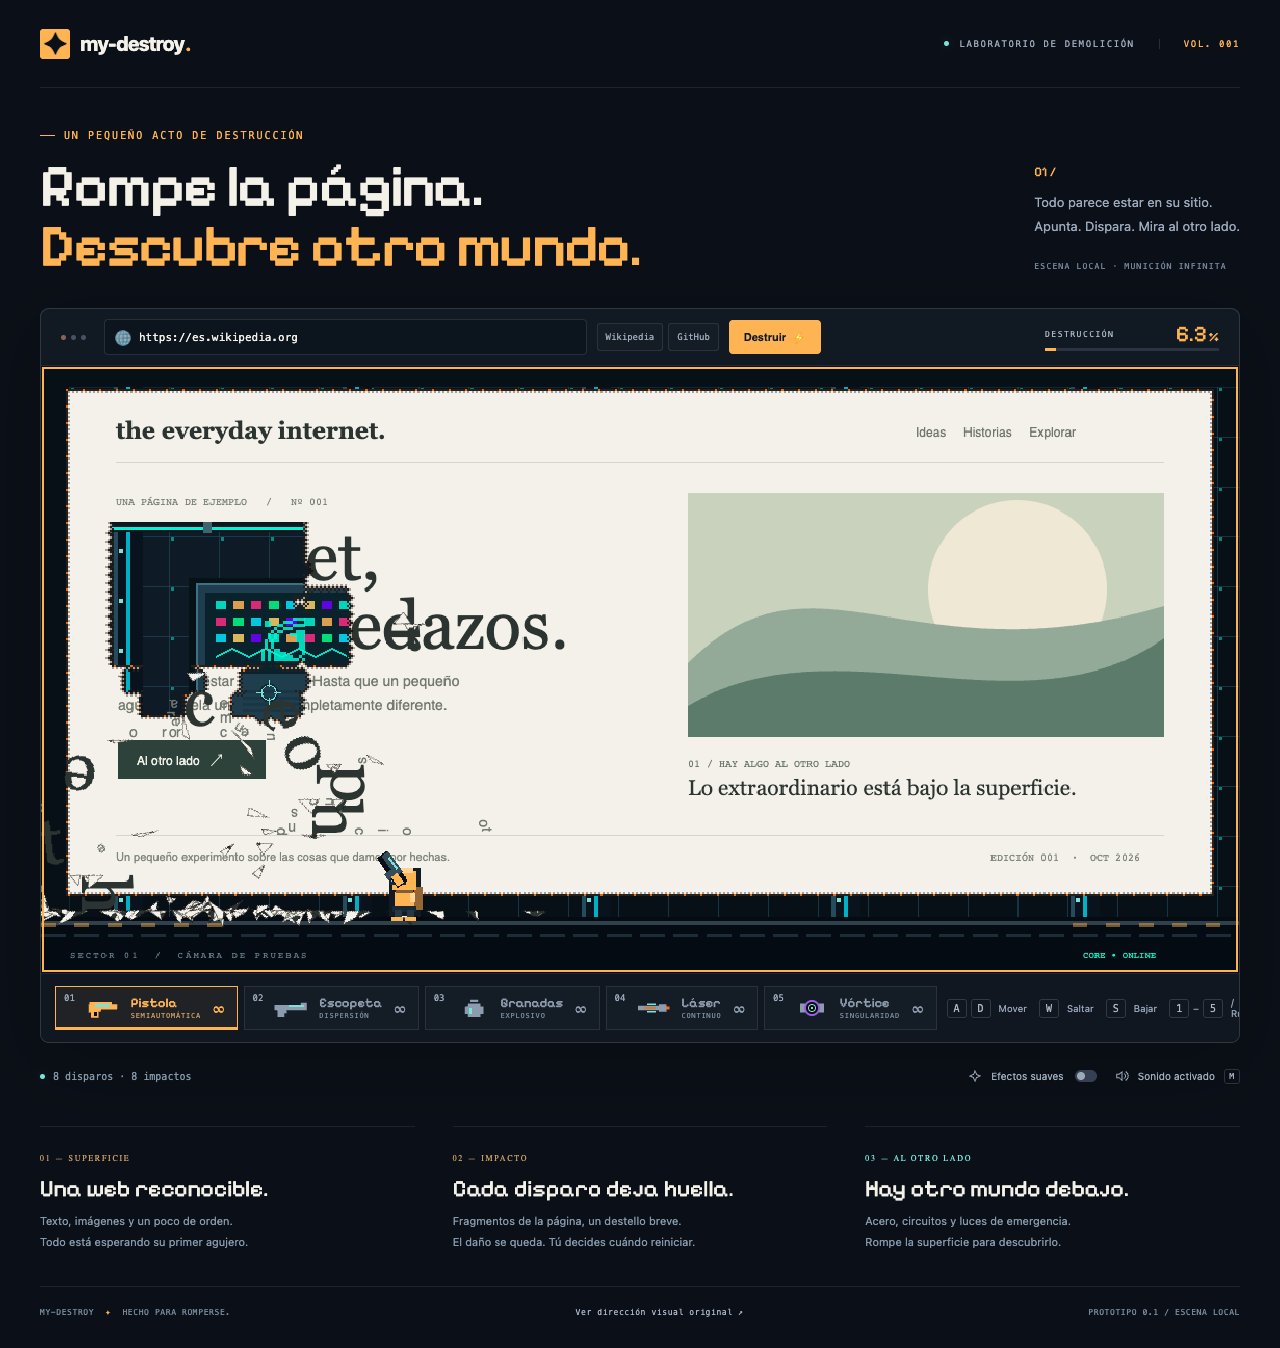
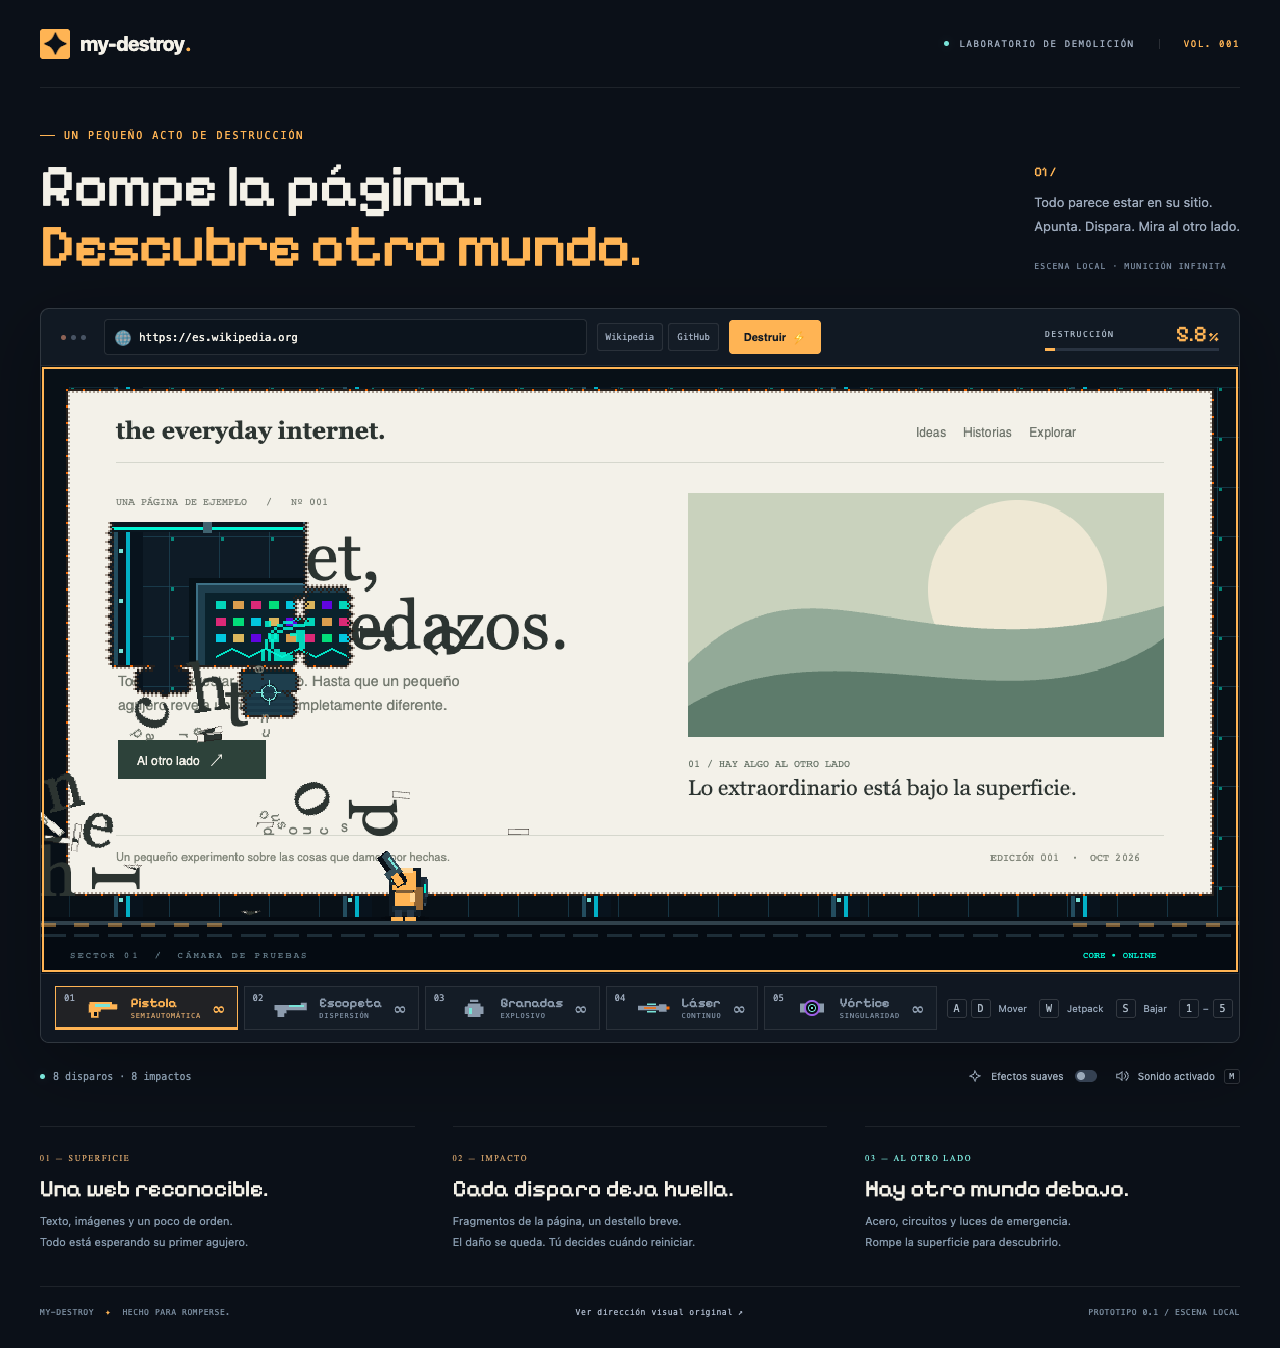
test(e2e): actualizar asercion de fragmentacion y capturas graficas con jetpack y armas rebalanceadas

diff --git a/tests/scene.spec.ts b/tests/scene.spec.ts
@@ -232,8 +232,8 @@ test('DOM text splitting: impact over headings and paragraphs detaches individua
   expect(afterFirstShot.textRemaining).toBeLessThan(initial.textRemaining);
   expect(afterFirstShot.debris).toBeGreaterThan(0);
 
-  // Fire into the second line 'hecho pedazos.' located at worldX ~140, worldY ~270
-  await fire(page, 140, 270);
+  // Fire into the second line 'pedazos' located at worldX ~220, worldY ~255
+  await fire(page, 220, 255);
   await page.waitForTimeout(250);
 
   const afterSecondShot = await snapshot(page);
